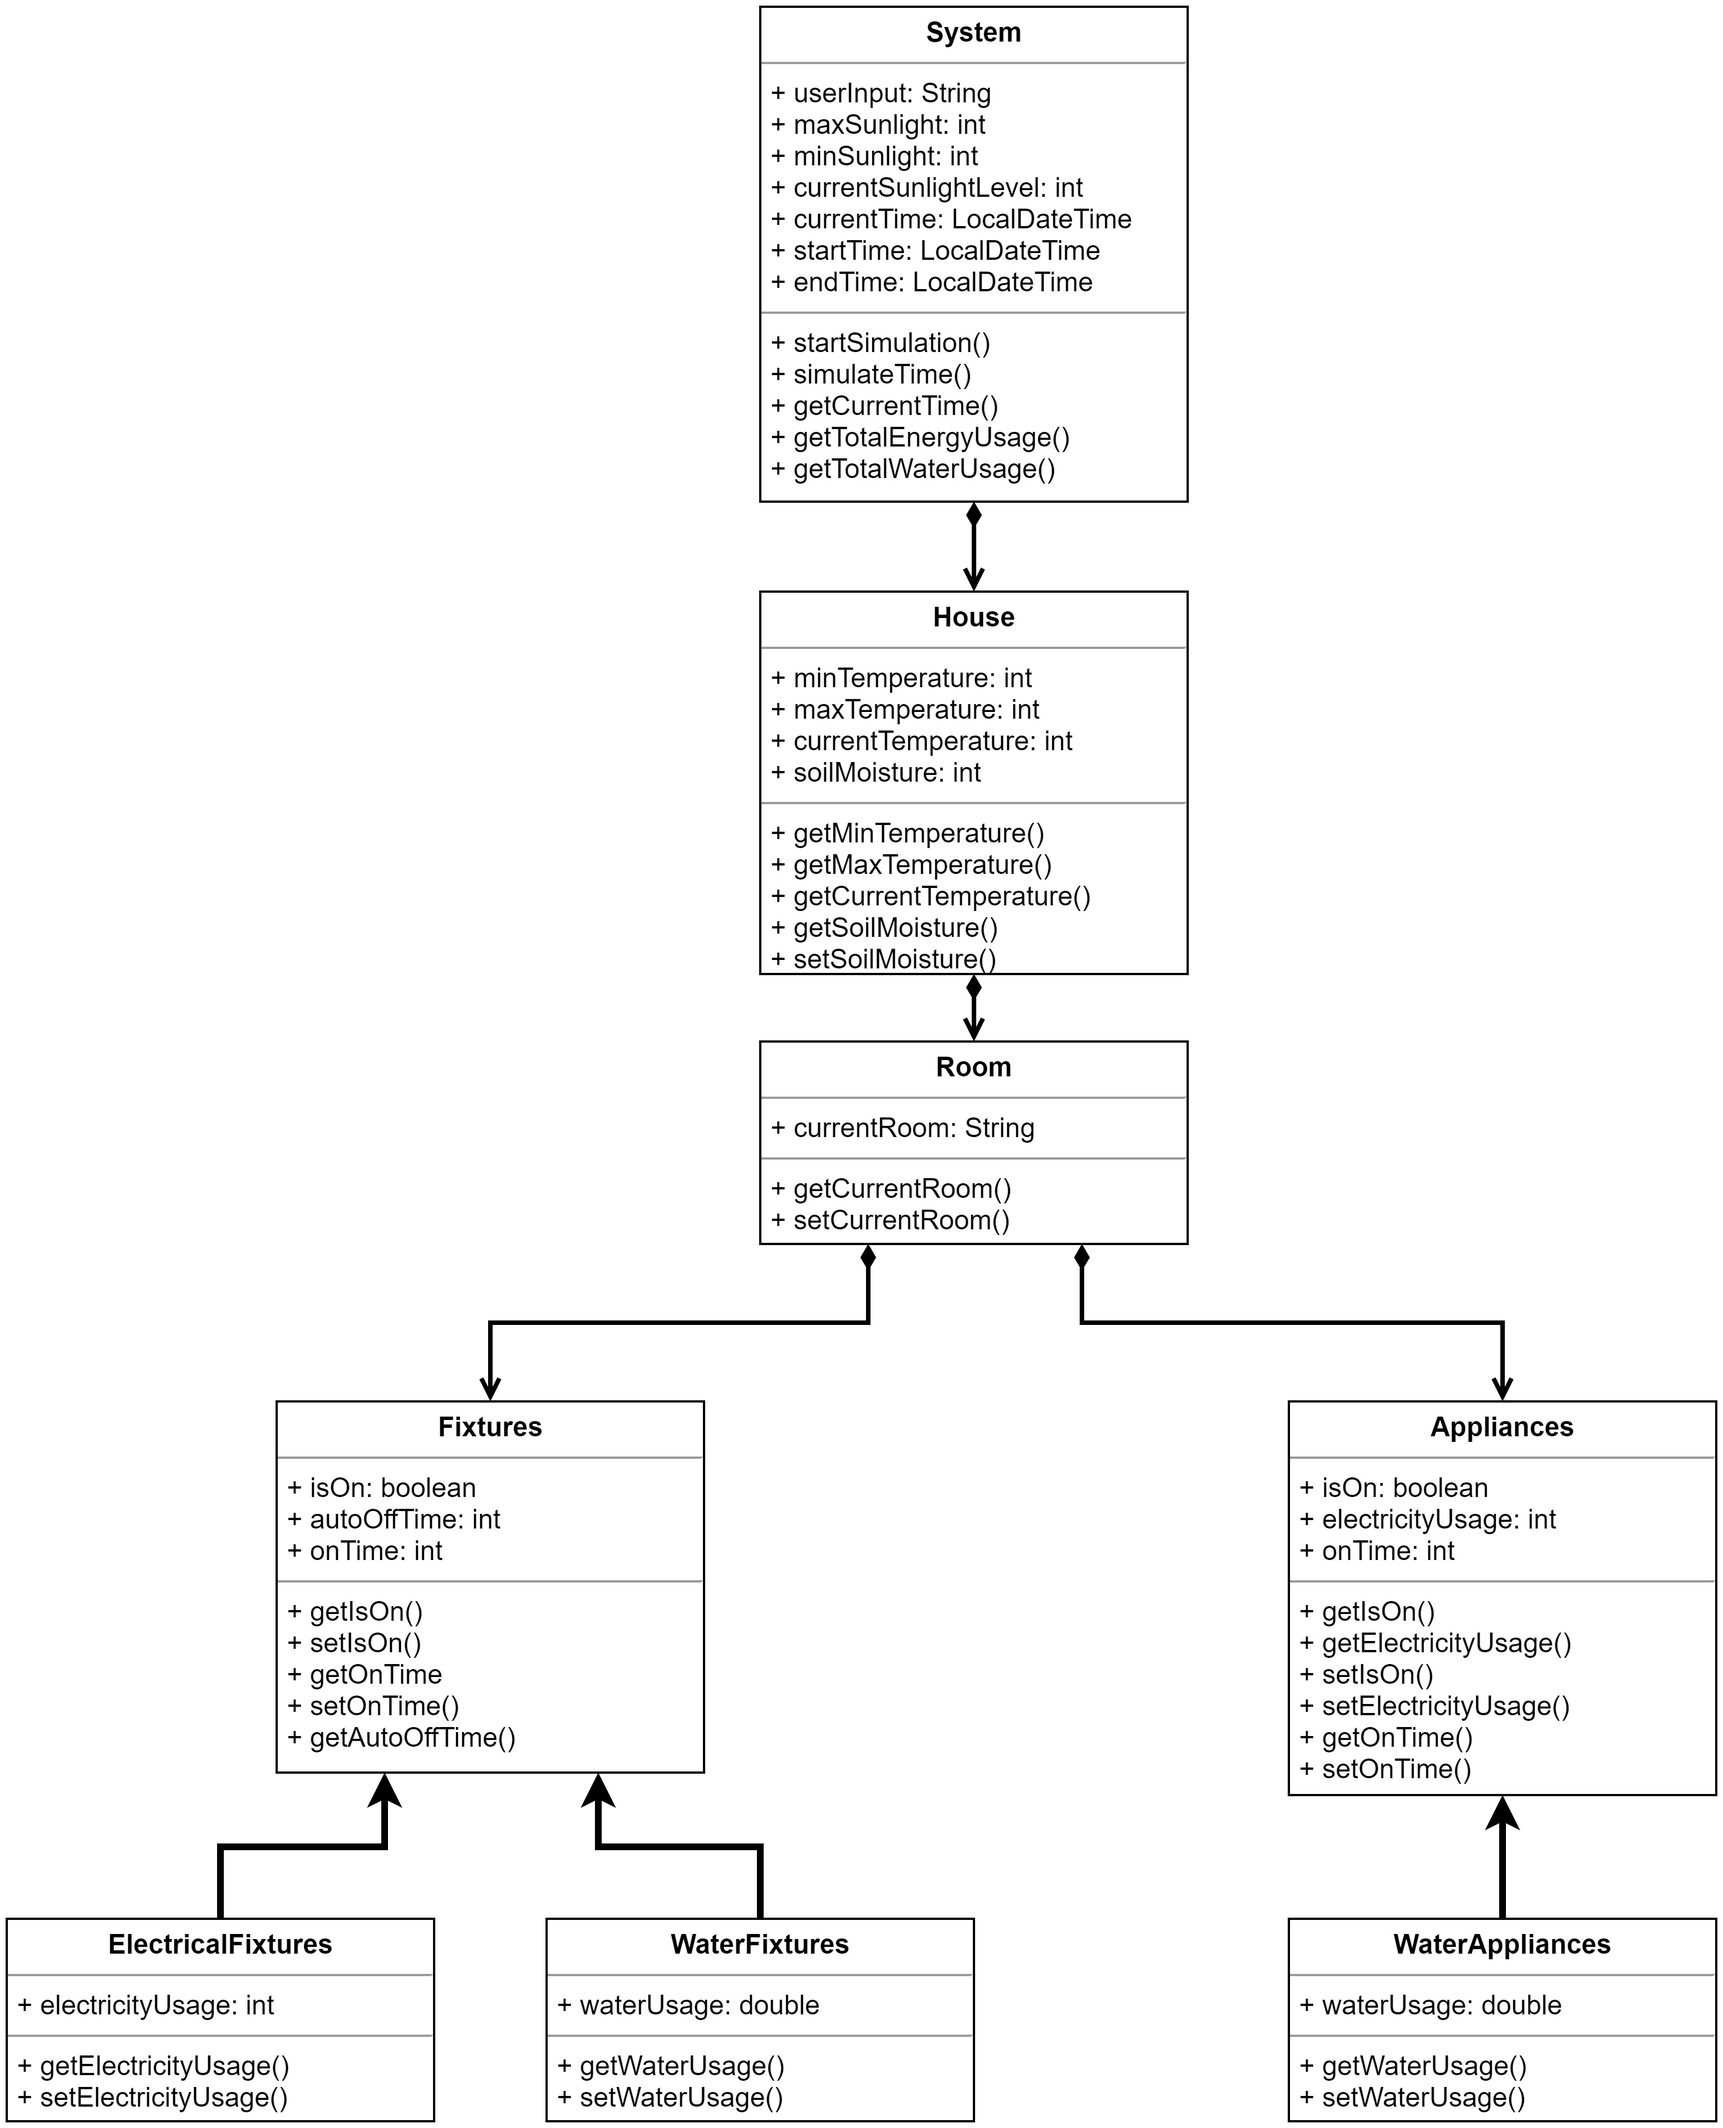
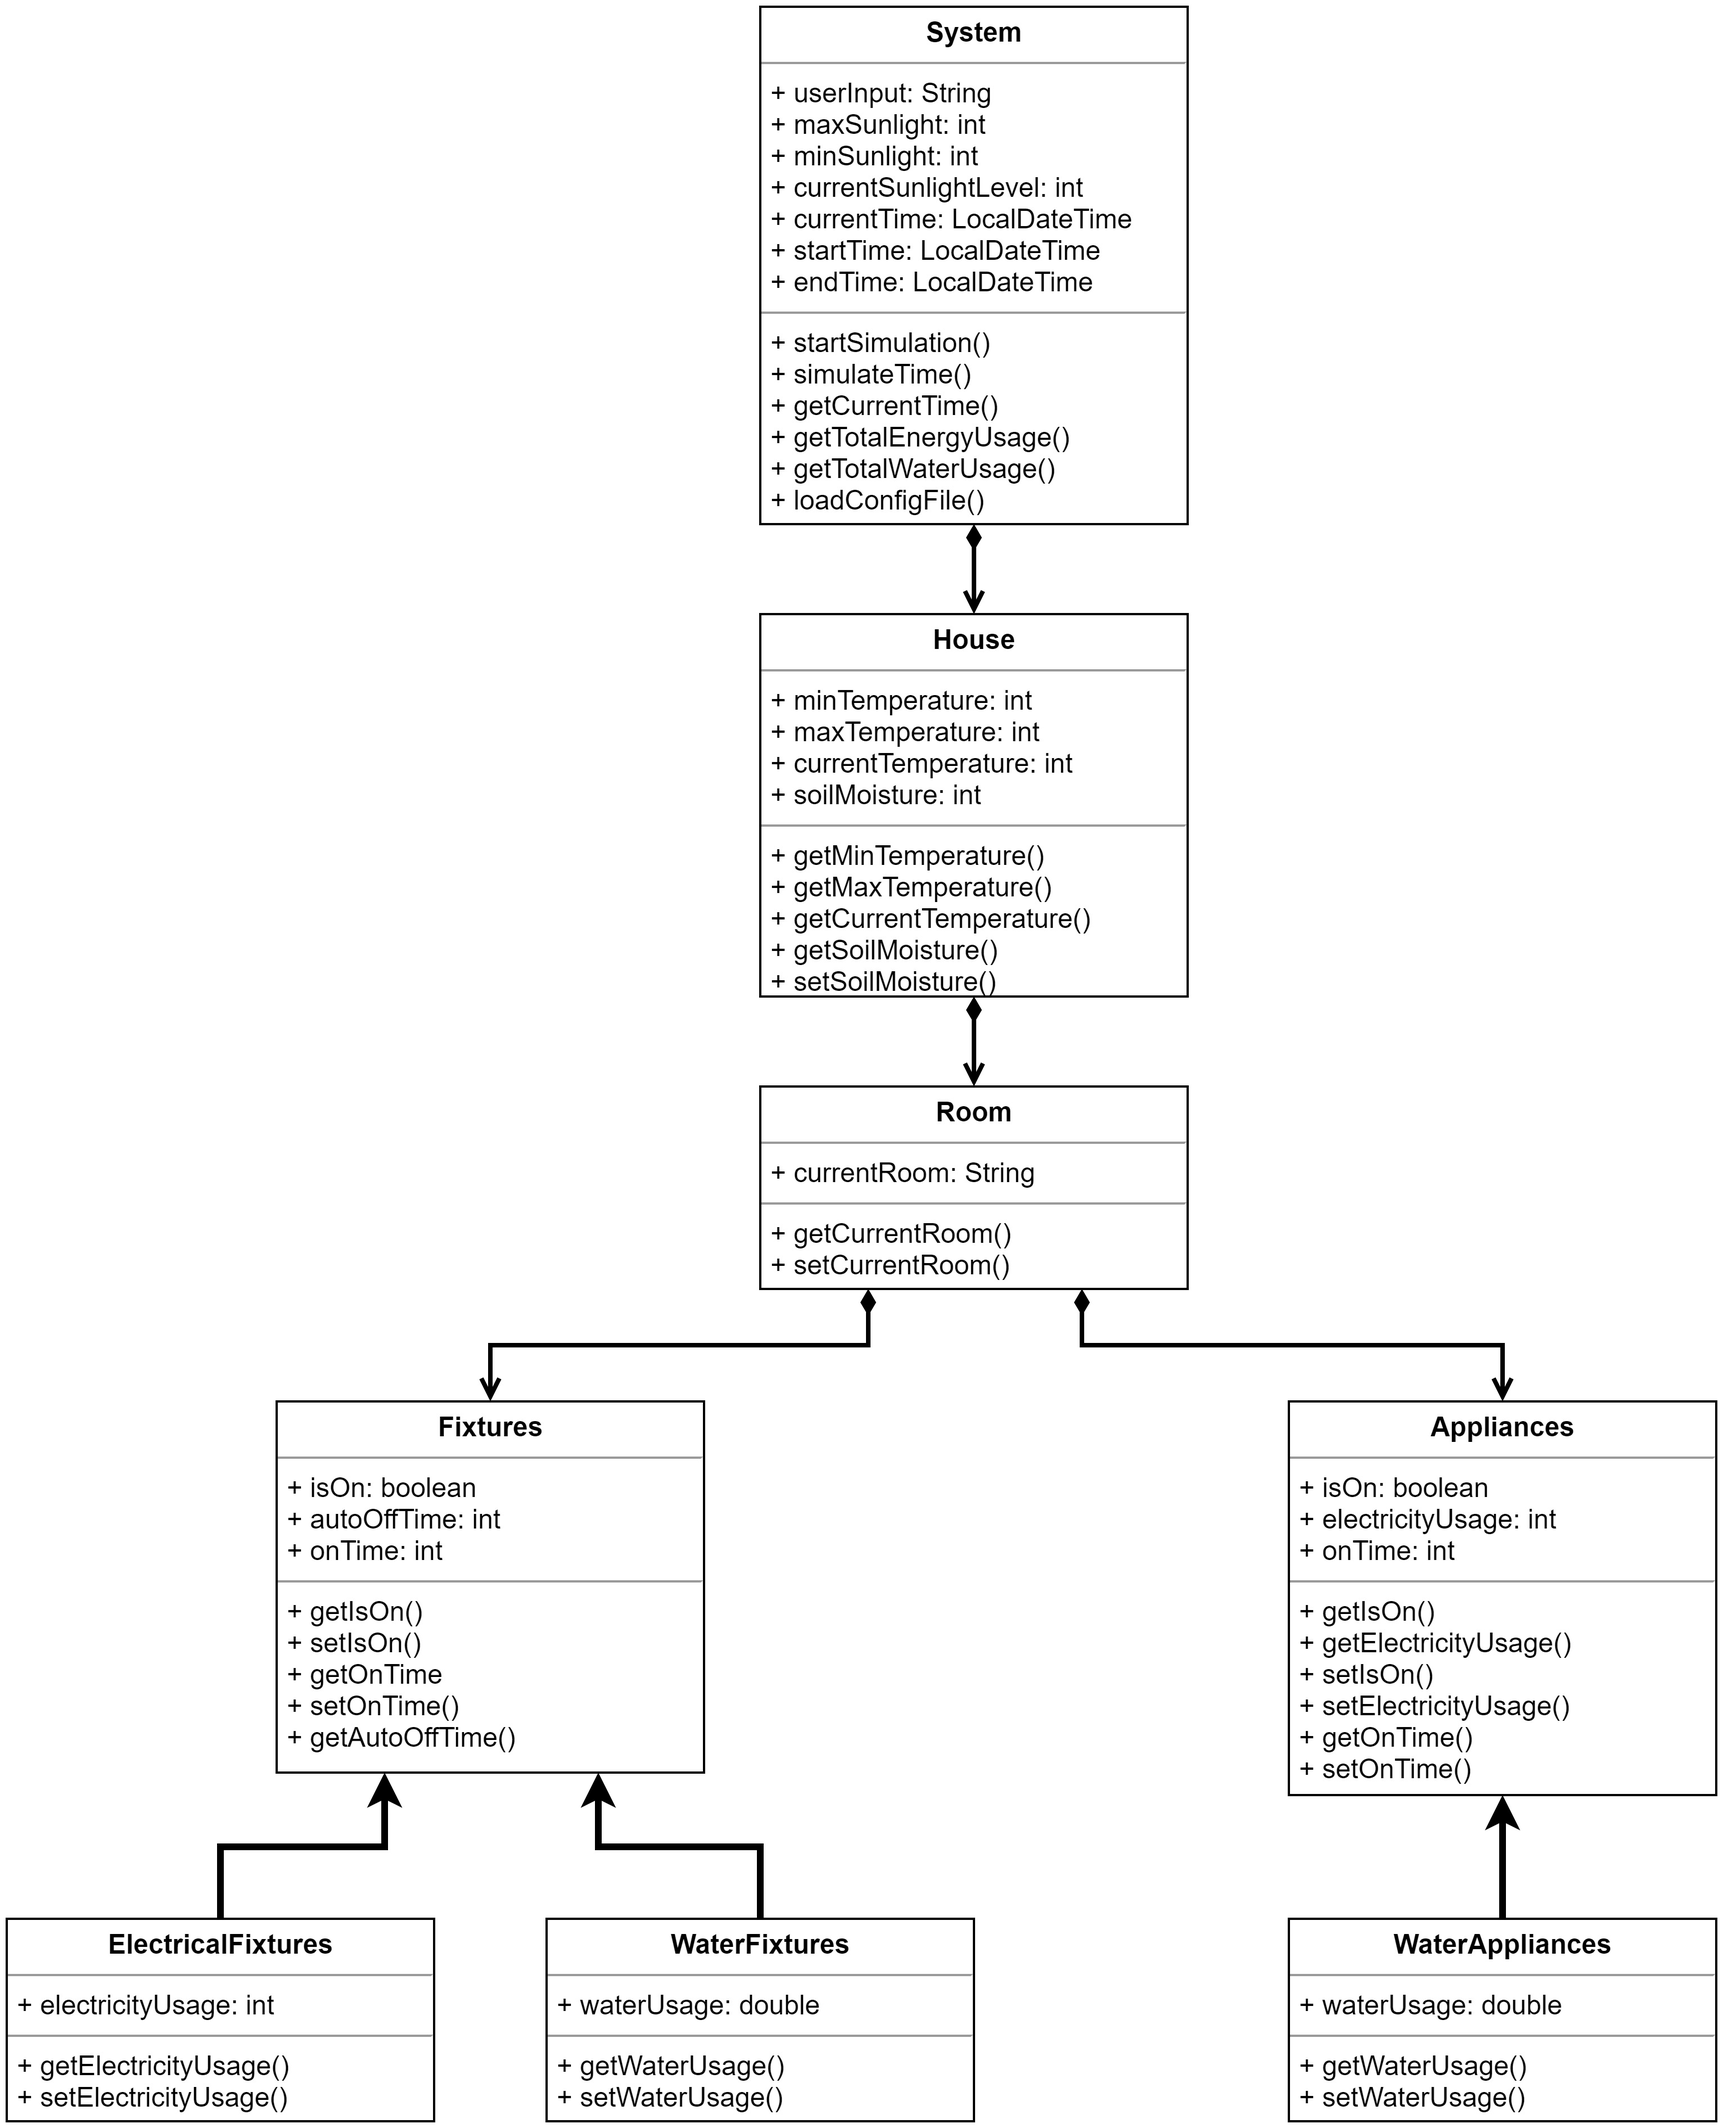
Add all relevant classes based on the UML diagram, with comments describing them Update class diagram to reflect project requirements

Changed region(s): [[0.4341, 0.2183, 0.6201, 0.6237], [0.6201, 0.5613, 0.6821, 0.6237]]

diff --git a/JavaApplication/System.java b/JavaApplication/System.java
@@ -1,0 +1,11 @@
+/*
+Provides menu for running the program
+Provides methods to get total metrics
+Provides method to simulate time
+Provides method to load config file properties
+*/
+public class System {
+    public static void main(String[] args) {
+
+    }
+}

diff --git a/JavaApplication/ElectricalFixtures.java b/JavaApplication/ElectricalFixtures.java
@@ -1,0 +1,6 @@
+/*
+Provides getters and setters for ElectricalFixtures variables
+*/
+public class ElectricalFixtures {
+
+}

diff --git a/JavaApplication/WaterAppliances.java b/JavaApplication/WaterAppliances.java
@@ -1,0 +1,6 @@
+/*
+Provides getters and setters for WaterAppliances variables
+*/
+public class WaterAppliances {
+
+}

diff --git a/JavaApplication/WaterFixtures.java b/JavaApplication/WaterFixtures.java
@@ -1,0 +1,6 @@
+/*
+Provides getters and setters for WaterFixtures variables
+*/
+public class WaterFixtures {
+
+}

diff --git a/JavaApplication/Appliances.java b/JavaApplication/Appliances.java
@@ -1,3 +1,6 @@
+/*
+Provides getters and setters for Appliances variables
+*/
 public class Appliances {
 
 }

diff --git a/JavaApplication/Fixtures.java b/JavaApplication/Fixtures.java
@@ -1,3 +1,6 @@
+/*
+Provides getters and setters for Fixtures variables
+*/
 public class Fixtures {
 
 }

diff --git a/JavaApplication/House.java b/JavaApplication/House.java
@@ -1,0 +1,6 @@
+/*
+Provides getters and setters for House variables
+*/
+public class House {
+
+}

diff --git a/JavaApplication/Room.java b/JavaApplication/Room.java
@@ -1,0 +1,6 @@
+/*
+Provides getters and setters for Room variables
+*/
+public class Room {
+
+}
